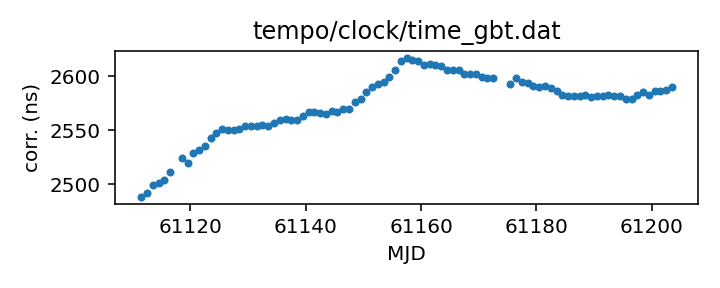
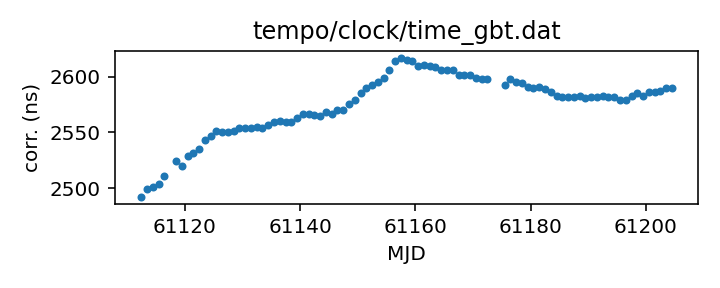
Routine gh-pages update from Github action Sun Jun 14 21:49:48 UTC 2026

diff --git a/status.md b/status.md
@@ -13,18 +13,18 @@ name of each clock file links to a page with more details.
 
 | Name | File | Corrections start | Corrections end | Last check date | Last check result 
 |:--- |:--- | --- | --- | --- |:--- 
-| [GPS to UTC](T2runtime/clock/gps2utc.clk.html) | `T2runtime/clock/gps2utc.clk` | 1993-01-01 MJD 48988.0 | 2026-05-29 MJD 61189.0 | 2026-06-13 | Unchanged 
-| [GPS to UTC (Combined Clock)](T2runtime/clock/gps2utc_cc.clk.html) | `T2runtime/clock/gps2utc_cc.clk` | 1993-01-01 MJD 48988.0 | 2026-05-29 MJD 61189.0 | 2026-06-13 | Unchanged 
-| [GPS to UTC (Corrected)](T2runtime/clock/gps2utc_c0p.clk.html) | `T2runtime/clock/gps2utc_c0p.clk` | 2010-12-29 MJD 55559.0 | 2026-05-29 MJD 61189.0 | 2026-06-13 | Unchanged 
-| [GBT](tempo/clock/time_gbt.dat.html) | `tempo/clock/time_gbt.dat` | 2000-12-31 MJD 51909.5 | 2026-06-12 MJD 61203.5 | 2026-06-13 | Updated 
-| [GBT (TEMPO2 converted from TEMPO)](T2runtime/clock/gbt2gps.clk.html) | `T2runtime/clock/gbt2gps.clk` | 2000-12-31 MJD 51909.5 | 2024-05-18 MJD 60448.5 | 2026-06-13 | **Validation failed** 
+| [GPS to UTC](T2runtime/clock/gps2utc.clk.html) | `T2runtime/clock/gps2utc.clk` | 1993-01-01 MJD 48988.0 | 2026-05-29 MJD 61189.0 | 2026-06-14 | Unchanged 
+| [GPS to UTC (Combined Clock)](T2runtime/clock/gps2utc_cc.clk.html) | `T2runtime/clock/gps2utc_cc.clk` | 1993-01-01 MJD 48988.0 | 2026-05-29 MJD 61189.0 | 2026-06-14 | Unchanged 
+| [GPS to UTC (Corrected)](T2runtime/clock/gps2utc_c0p.clk.html) | `T2runtime/clock/gps2utc_c0p.clk` | 2010-12-29 MJD 55559.0 | 2026-05-29 MJD 61189.0 | 2026-06-14 | Unchanged 
+| [GBT](tempo/clock/time_gbt.dat.html) | `tempo/clock/time_gbt.dat` | 2000-12-31 MJD 51909.5 | 2026-06-13 MJD 61204.5 | 2026-06-14 | Updated 
+| [GBT (TEMPO2 converted from TEMPO)](T2runtime/clock/gbt2gps.clk.html) | `T2runtime/clock/gbt2gps.clk` | 2000-12-31 MJD 51909.5 | 2024-05-18 MJD 60448.5 | 2026-06-14 | **Validation failed** 
 | [Jodrell Bank](T2runtime/clock/jb2gps.clk.html) | `T2runtime/clock/jb2gps.clk` | 2006-10-13 MJD 54021.4 | 2026-04-17 MJD 61147.0 | 2026-06-08 | Unchanged 
 | [Jodrell Bank Roach](T2runtime/clock/jbroach2jb.clk.html) | `T2runtime/clock/jbroach2jb.clk` | 2006-10-13 MJD 54021.4 | 2018-03-20 MJD 58197.6 | 2026-06-12 | Unchanged 
 | [Jodrell Bank DFB](T2runtime/clock/jbdfb2jb.clk.html) | `T2runtime/clock/jbdfb2jb.clk` | 2006-10-13 MJD 54021.4 | 2021-02-22 MJD 59268.0 | 2026-06-12 | Unchanged 
 | [Meerkat (observatory)](T2runtime/clock/mk2utc_observatory.clk.html) | `T2runtime/clock/mk2utc_observatory.clk` | 2019-01-01 MJD 58484.0 | 2026-04-10 MJD 61141.0 | 2026-06-12 | **Validation failed** 
-| [Leap seconds](tempo/clock/leap.sec.html) | `tempo/clock/leap.sec` | 1972-07-01 MJD 41499.0 | 2017-01-01 MJD 57754.0 | 2026-06-13 | Unchanged 
-| [UT1 table](tempo/clock/ut1.dat.html) | `tempo/clock/ut1.dat` | 1973-01-02 MJD 41684.0 | 2027-06-19 MJD 61575.0 | 2026-06-13 | Unchanged 
-| [UT1 table](T2runtime/clock/ut1.dat.html) | `T2runtime/clock/ut1.dat` | 1973-01-02 MJD 41684.0 | 2027-06-19 MJD 61575.0 | 2026-06-13 | Unchanged 
+| [Leap seconds](tempo/clock/leap.sec.html) | `tempo/clock/leap.sec` | 1972-07-01 MJD 41499.0 | 2017-01-01 MJD 57754.0 | 2026-06-14 | Unchanged 
+| [UT1 table](tempo/clock/ut1.dat.html) | `tempo/clock/ut1.dat` | 1973-01-02 MJD 41684.0 | 2027-06-19 MJD 61575.0 | 2026-06-14 | Unchanged 
+| [UT1 table](T2runtime/clock/ut1.dat.html) | `T2runtime/clock/ut1.dat` | 1973-01-02 MJD 41684.0 | 2027-06-19 MJD 61575.0 | 2026-06-14 | Unchanged 
 
 
 

diff --git a/tempo/clock/time_gbt.dat.md b/tempo/clock/time_gbt.dat.md
@@ -36,14 +36,13 @@ If questions arise, contact Ryan S. Lynch <[email redacted]>.
 | Format | tempo |
 | Bogus last correction | False |
 | Clock file start | 2000-12-31 MJD 51909.5 |
-| Clock file end | 2026-06-12 MJD 61203.5 |
+| Clock file end | 2026-06-13 MJD 61204.5 |
 | Update interval (days) | 1 |
-| Last update attempt | 2026-06-13 |
+| Last update attempt | 2026-06-14 |
 | Last update result | Updated |
 
 Log entries from the last few update attempts:
 ```
-2026-06-04 22:00:26.837 - Updated
 2026-06-05 21:54:01.776 - Updated
 2026-06-06 21:36:47.658 - Updated
 2026-06-07 21:44:23.660 - Updated
@@ -53,12 +52,13 @@ Log entries from the last few update attempts:
 2026-06-11 22:23:49.849 - Updated
 2026-06-12 22:06:09.450 - Updated
 2026-06-13 21:45:40.356 - Updated
[phone redacted]:49:29.890 - Updated
 ```
 [Full log](https://raw.githubusercontent.com/ipta/pulsar-clock-corrections/main/log/tempo/clock/time_gbt.dat.log)
 
 Leading comments from clock file:
 
-     -2612.50       0.0        -0.503 1    32766-dec
+     -2612.50       0.0        -0.503 1    32765-dec
 
 
 

diff --git a/T2runtime/clock/gbt2gps.clk.md b/T2runtime/clock/gbt2gps.clk.md
@@ -25,12 +25,11 @@ If questions arise about the conversion, contact Anne Archibald
 | Clock file start | 2000-12-31 MJD 51909.5 |
 | Clock file end | 2024-05-18 MJD 60448.5 |
 | Update interval (days) | 1 |
-| Last update attempt | 2026-06-13 |
+| Last update attempt | 2026-06-14 |
 | Last update result | Validation failed |
 
 Log entries from the last few update attempts:
 ```
-2026-06-04 22:00:26.905 - Validation failed: New version of T2runtime/clock/gbt2gps.clk MJDs differ from old version where they overlap in 8407 places
 2026-06-05 21:54:02.181 - Validation failed: New version of T2runtime/clock/gbt2gps.clk MJDs differ from old version where they overlap in 8407 places
 2026-06-06 21:36:47.734 - Validation failed: New version of T2runtime/clock/gbt2gps.clk MJDs differ from old version where they overlap in 8407 places
 2026-06-07 21:44:23.742 - Validation failed: New version of T2runtime/clock/gbt2gps.clk MJDs differ from old version where they overlap in 8407 places
@@ -40,6 +39,7 @@ Log entries from the last few update attempts:
 2026-06-11 22:23:49.919 - Validation failed: New version of T2runtime/clock/gbt2gps.clk MJDs differ from old version where they overlap in 8407 places
 2026-06-12 22:06:09.734 - Validation failed: New version of T2runtime/clock/gbt2gps.clk MJDs differ from old version where they overlap in 8407 places
 2026-06-13 21:45:40.437 - Validation failed: New version of T2runtime/clock/gbt2gps.clk MJDs differ from old version where they overlap in 8407 places
[phone redacted]:49:29.959 - Validation failed: New version of T2runtime/clock/gbt2gps.clk MJDs differ from old version where they overlap in 8407 places
 ```
 [Full log](https://raw.githubusercontent.com/ipta/pulsar-clock-corrections/main/log/T2runtime/clock/gbt2gps.clk.log)
 

diff --git a/T2runtime/clock/gps2utc.clk.md b/T2runtime/clock/gps2utc.clk.md
@@ -32,12 +32,11 @@ about the BIPM's published corrections, contact <[email redacted]>.
 | Clock file start | 1993-01-01 MJD 48988.0 |
 | Clock file end | 2026-05-29 MJD 61189.0 |
 | Update interval (days) | 1 |
-| Last update attempt | 2026-06-13 |
+| Last update attempt | 2026-06-14 |
 | Last update result | Unchanged |
 
 Log entries from the last few update attempts:
 ```
-2026-06-04 22:00:26.271 - Unchanged
 2026-06-05 21:54:01.103 - Unchanged
 2026-06-06 21:36:47.060 - Unchanged
 2026-06-07 21:44:22.834 - Unchanged
@@ -47,6 +46,7 @@ Log entries from the last few update attempts:
 2026-06-11 22:23:48.898 - Updated
 2026-06-12 22:06:08.966 - Unchanged
 2026-06-13 21:45:39.403 - Unchanged
[phone redacted]:49:29.581 - Unchanged
 ```
 [Full log](https://raw.githubusercontent.com/ipta/pulsar-clock-corrections/main/log/T2runtime/clock/gps2utc.clk.log)
 

diff --git a/T2runtime/clock/gps2utc_c0p.clk.md b/T2runtime/clock/gps2utc_c0p.clk.md
@@ -30,12 +30,11 @@ about the BIPM's published corrections, contact <[email redacted]>.
 | Clock file start | 2010-12-29 MJD 55559.0 |
 | Clock file end | 2026-05-29 MJD 61189.0 |
 | Update interval (days) | 1 |
-| Last update attempt | 2026-06-13 |
+| Last update attempt | 2026-06-14 |
 | Last update result | Unchanged |
 
 Log entries from the last few update attempts:
 ```
-2026-06-04 22:00:26.300 - Unchanged
 2026-06-05 21:54:01.131 - Unchanged
 2026-06-06 21:36:47.090 - Unchanged
 2026-06-07 21:44:22.864 - Unchanged
@@ -45,6 +44,7 @@ Log entries from the last few update attempts:
 2026-06-11 22:23:48.983 - Updated
 2026-06-12 22:06:08.995 - Unchanged
 2026-06-13 21:45:39.434 - Unchanged
[phone redacted]:49:29.611 - Unchanged
 ```
 [Full log](https://raw.githubusercontent.com/ipta/pulsar-clock-corrections/main/log/T2runtime/clock/gps2utc_c0p.clk.log)
 

diff --git a/T2runtime/clock/gps2utc_cc.clk.md b/T2runtime/clock/gps2utc_cc.clk.md
@@ -29,12 +29,11 @@ about the BIPM's published corrections, contact <[email redacted]>.
 | Clock file start | 1993-01-01 MJD 48988.0 |
 | Clock file end | 2026-05-29 MJD 61189.0 |
 | Update interval (days) | 1 |
-| Last update attempt | 2026-06-13 |
+| Last update attempt | 2026-06-14 |
 | Last update result | Unchanged |
 
 Log entries from the last few update attempts:
 ```
-2026-06-04 22:00:26.292 - Unchanged
 2026-06-05 21:54:01.124 - Unchanged
 2026-06-06 21:36:47.082 - Unchanged
 2026-06-07 21:44:22.856 - Unchanged
@@ -44,6 +43,7 @@ Log entries from the last few update attempts:
 2026-06-11 22:23:48.957 - Updated
 2026-06-12 22:06:08.987 - Unchanged
 2026-06-13 21:45:39.426 - Unchanged
[phone redacted]:49:29.603 - Unchanged
 ```
 [Full log](https://raw.githubusercontent.com/ipta/pulsar-clock-corrections/main/log/T2runtime/clock/gps2utc_cc.clk.log)
 

diff --git a/T2runtime/clock/ut1.dat.md b/T2runtime/clock/ut1.dat.md
@@ -30,12 +30,11 @@ If there are any questions, contact Anne Archibald
 | File start | 1973-01-02 MJD 41684.0 |
 | File end | 2027-06-19 MJD 61575.0 |
 | Update interval (days) | 0 |
-| Last update attempt | 2026-06-13 |
+| Last update attempt | 2026-06-14 |
 | Last update result | Unchanged |
 
 Log entries from the last few update attempts:
 ```
-2026-06-04 22:00:30.938 - Updated
 2026-06-05 21:54:23.137 - Unchanged
 2026-06-06 21:36:52.829 - Unchanged
 2026-06-07 21:44:27.969 - Unchanged
@@ -45,5 +44,6 @@ Log entries from the last few update attempts:
 2026-06-11 22:23:54.046 - Updated
 2026-06-12 22:06:30.333 - Unchanged
 2026-06-13 21:45:45.708 - Unchanged
[phone redacted]:49:34.443 - Unchanged
 ```
 [Full log](https://raw.githubusercontent.com/ipta/pulsar-clock-corrections/main/log/T2runtime/clock/ut1.dat.log)

diff --git a/tempo/clock/leap.sec.md b/tempo/clock/leap.sec.md
@@ -21,12 +21,11 @@ If there are any questions, contact Anne Archibald
 | File start | 1972-07-01 MJD 41499.0 |
 | File end | 2017-01-01 MJD 57754.0 |
 | Update interval (days) | 0 |
-| Last update attempt | 2026-06-13 |
+| Last update attempt | 2026-06-14 |
 | Last update result | Unchanged |
 
 Log entries from the last few update attempts:
 ```
-2026-06-04 22:00:26.926 - Unchanged
 2026-06-05 21:54:19.274 - Unchanged
 2026-06-06 21:36:47.758 - Unchanged
 2026-06-07 21:44:23.769 - Unchanged
@@ -36,5 +35,6 @@ Log entries from the last few update attempts:
 2026-06-11 22:23:49.940 - Unchanged
 2026-06-12 22:06:26.713 - Unchanged
 2026-06-13 21:45:40.463 - Unchanged
[phone redacted]:49:29.980 - Unchanged
 ```
 [Full log](https://raw.githubusercontent.com/ipta/pulsar-clock-corrections/main/log/tempo/clock/leap.sec.log)

diff --git a/tempo/clock/ut1.dat.md b/tempo/clock/ut1.dat.md
@@ -30,12 +30,11 @@ If there are any questions, contact Anne Archibald
 | File start | 1973-01-02 MJD 41684.0 |
 | File end | 2027-06-19 MJD 61575.0 |
 | Update interval (days) | 0 |
-| Last update attempt | 2026-06-13 |
+| Last update attempt | 2026-06-14 |
 | Last update result | Unchanged |
 
 Log entries from the last few update attempts:
 ```
-2026-06-04 22:00:30.896 - Updated
 2026-06-05 21:54:23.092 - Unchanged
 2026-06-06 21:36:52.786 - Unchanged
 2026-06-07 21:44:27.919 - Unchanged
@@ -45,5 +44,6 @@ Log entries from the last few update attempts:
 2026-06-11 22:23:54.004 - Updated
 2026-06-12 22:06:30.290 - Unchanged
 2026-06-13 21:45:45.660 - Unchanged
[phone redacted]:49:34.400 - Unchanged
 ```
 [Full log](https://raw.githubusercontent.com/ipta/pulsar-clock-corrections/main/log/tempo/clock/ut1.dat.log)